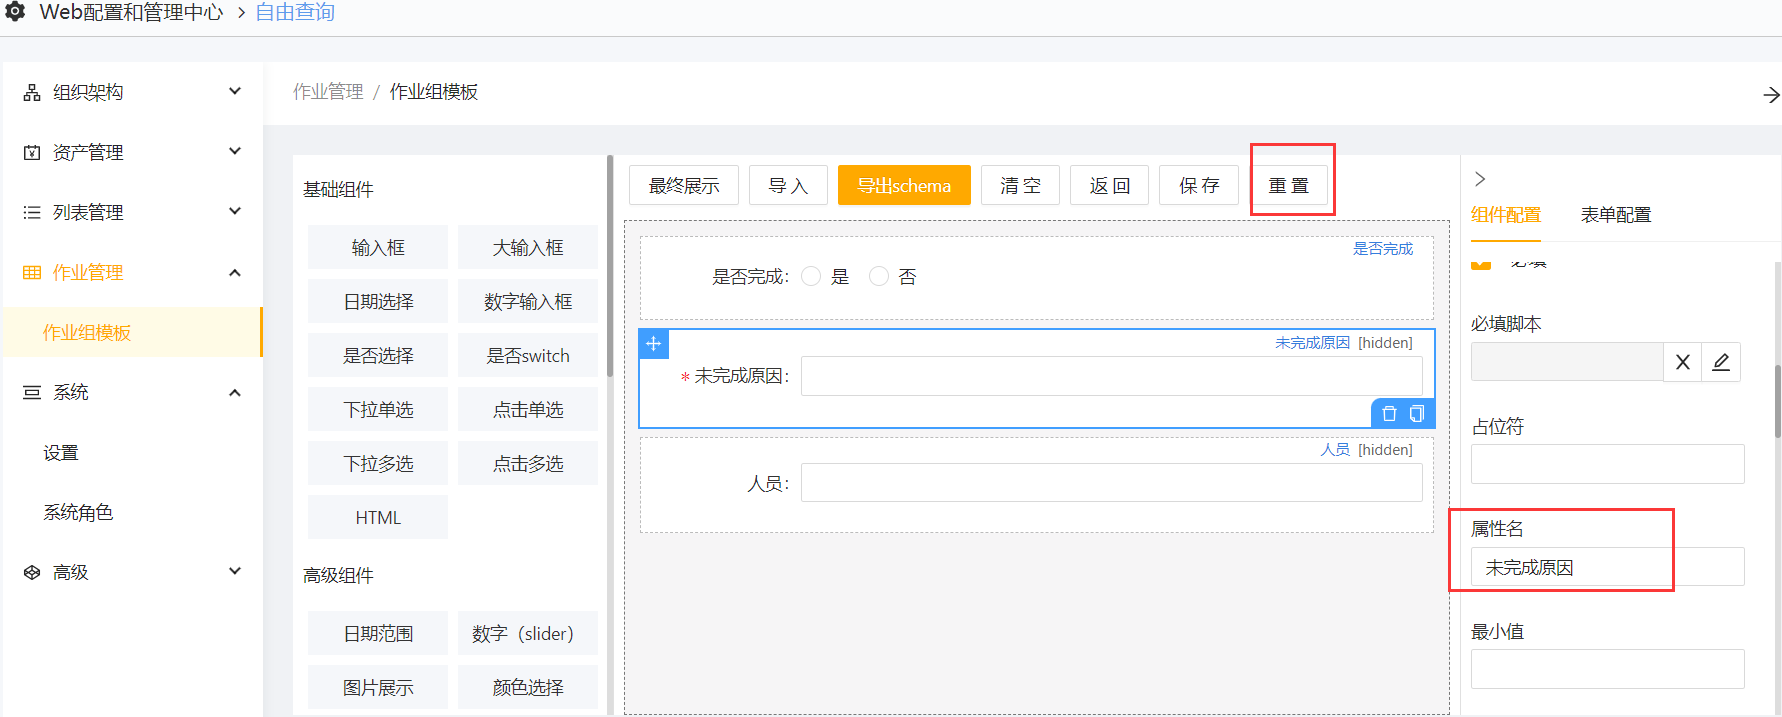
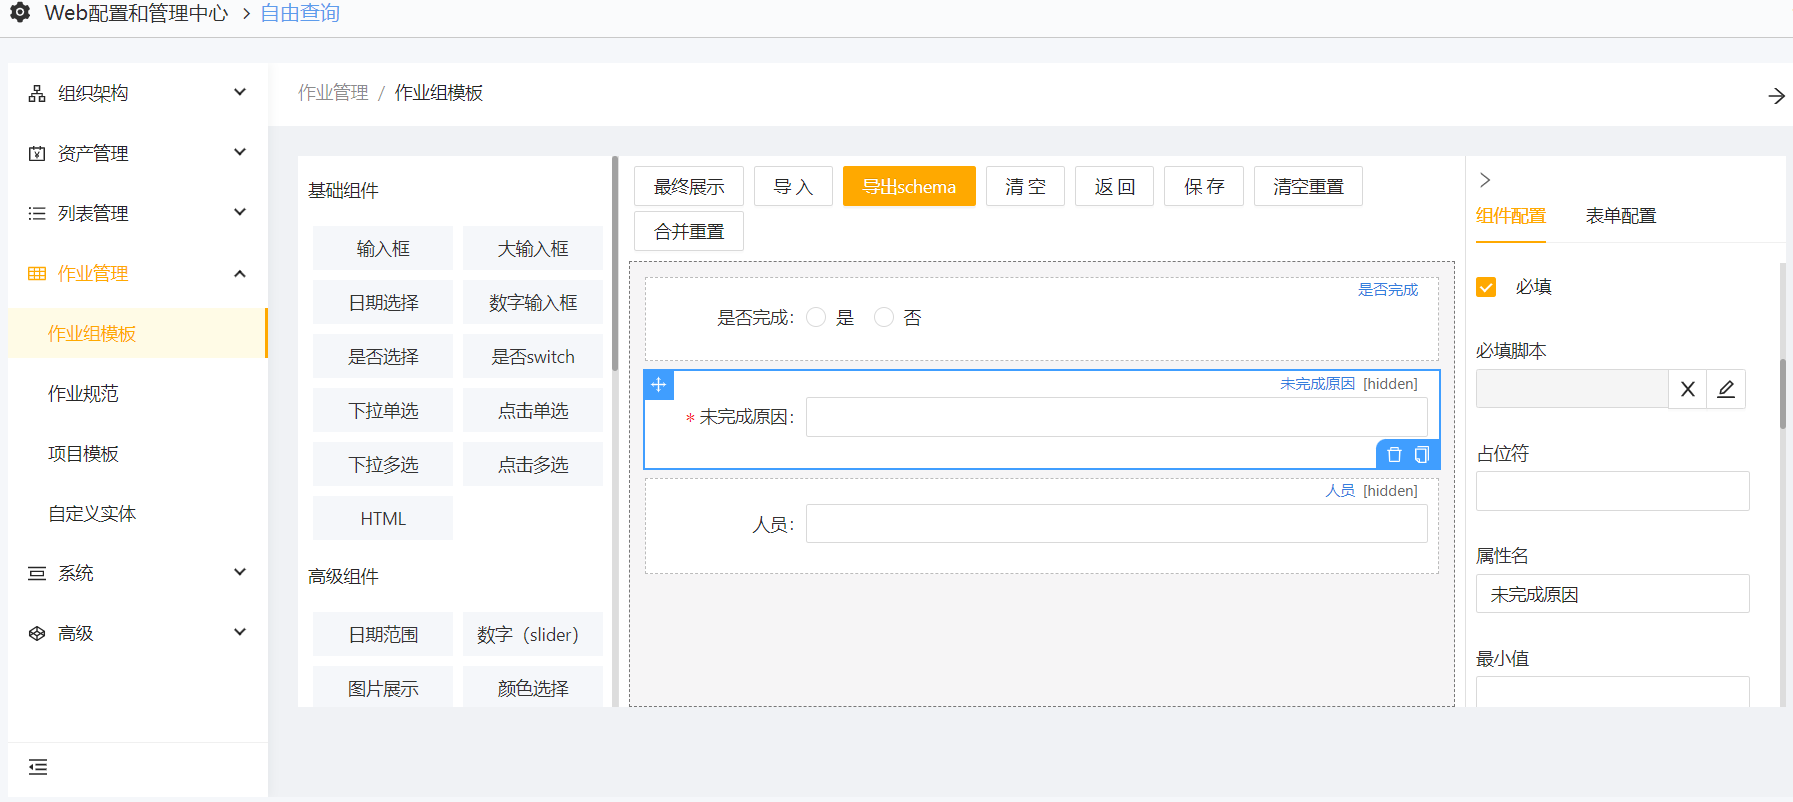
修改4.3.0发布说明

diff --git a/docs/发布说明/4.3.0发布说明.md b/docs/发布说明/4.3.0发布说明.md
@@ -159,21 +159,23 @@ import useBaseUrl from '@docusaurus/useBaseUrl';
 
   <img alt=" " src={useBaseUrl('docimg/自定义表单4302.png')} />
 
-* 在自定义表单页面，点击重置，就会将SDC里的作业组属性同步过来，之后就可以开始配置其显示样式了。
+* 进入自定义表单页面，可以看到属性显示与SDC里的作业组属性一致，之后就可以开始配置其显示样式了。
 
-* 页面左侧为各种组件，不点击重置，自行拖动各种组件来对应作业组属性也是可以的。右侧为配置栏，可以设置必填、隐藏、禁用等，可以写各类脚本，写法与SDC中略有差异，同时也可以配置显示的格式样式。其中属性名栏，如果是自行拖动组件来配置的话，其值必须填写与SDC中作业组属性名一样。
+* 页面左侧为各种组件，自行拖动各种组件来对应作业组属性也是可以的。右侧为配置栏，可以设置必填、隐藏、禁用等，可以写各类脚本，写法与SDC中基本相同，同时也可以配置显示的格式样式。其中属性名栏，如果是自行拖动组件来进行配置的话，其值必须填写与SDC中作业组属性名一样。
 
-* 如图，配置的样式为，将“未完成原因”和“人员”这两个属性默认为隐藏且“未完成原因”为必填，当“是否完成”的值为“否”时，才会显示出来，并且必填才会生效。
+* 如图，配置的样式为，将“未完成原因”配置为必填，且当“是否完成”的值为“否”时，“未完成原因”和“人员”这两个属性才会显示出来，并且必填才会生效。
 
   <img alt=" " src={useBaseUrl('docimg/自定义表单4303.png')} />
 
-* 想要实现这个效果，除了配置完“未完成原因”和“人员”外，只需要在“是否完成”中写一个数据修改后脚本即可，脚本窗口右侧内置有几种脚本的写法。
+* 想要实现这个效果，只需要在“未完成原因”和“人员”中写一个简单的隐藏脚本即可，脚本窗口右侧内置有脚本的写法。
 
   <img alt=" " src={useBaseUrl('docimg/自定义表单4304.png')} />
 
 * 配置完保存之后，在SDC的作业组基本属性框-自定义报表处，会自动生成一个表单的值，有这个值，那么该作业组就会显示自定义表单样式，删除掉这个值，就显示为原样式。
 
   <img alt=" " src={useBaseUrl('docimg/自定义表单4306.png')} />
+
+* 自定义表单中进行了配置后，如果点击清空重置，则回复到初始样式，所有在此界面进行的配置都清空。如果在SDC中进行了属性的修改，同时不希望自定义表单中已做好的配置失效，点击合并重置即可。
 
 * 在计划页面的实际效果。
 
@@ -404,6 +406,6 @@ if (list && list.length > 0) {
 
   <img alt=" " src={useBaseUrl('docimg/终端优化4303.png')} />
 
-* 静默同步失败时，可以每隔一段时间自动再运行。
+* 静默同步失败时，可以每隔一段时间自动再运行。由于终端上有时会出现作业组完成后同步不成功，或标记为完成但未同步的作业组，都会出现在已完成界面中的未同步里。这种往往没有提醒或日志，为了避免此种情况导致作业组变成延期或超时，在开启了静默同步后，如果出现同步失败的情况，会在几秒后自动再次同步。
 
 * 当组织单元排班起始时间相同时优化终端自动选择轮班和班次。如果组织单元中存在有多个起始时间相同的轮班，终端会根据轮班制度配置的不同，自动选择当前用户组织单元正确的轮班和班次。
